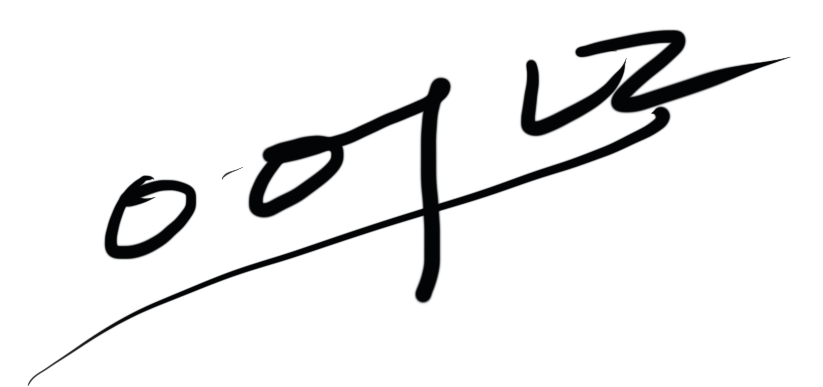
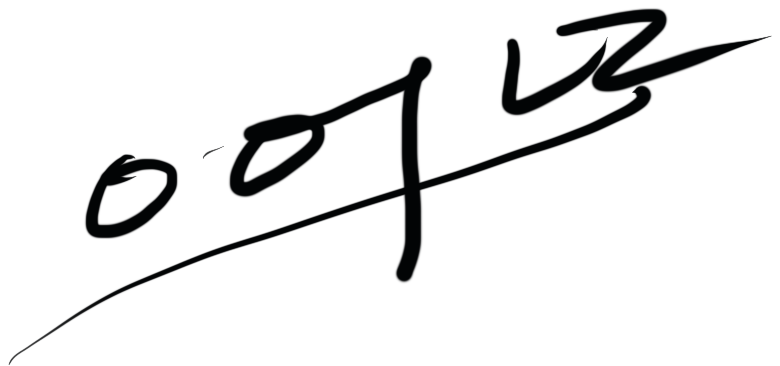
Refine company signature and footer branding

Changed region(s): [[0.0, 0.0, 0.9846, 0.9918], [0.0923, 0.4208, 0.2462, 0.6913]]

diff --git a/assets/styles/main.css b/assets/styles/main.css
@@ -94,6 +94,18 @@ a {
   color: inherit;
 }
 
+.sr-only {
+  position: absolute;
+  width: 1px;
+  height: 1px;
+  padding: 0;
+  margin: -1px;
+  overflow: hidden;
+  clip: rect(0, 0, 0, 0);
+  white-space: nowrap;
+  border: 0;
+}
+
 .site-header {
   position: sticky;
   top: 0;
@@ -960,12 +972,14 @@ body.route-projects .project-brief {
 
 .signature-box {
   margin-top: 8px;
+  width: min(100%, 420px);
   border: 1px dashed #c5c5c5;
-  border-radius: 10px;
-  min-height: 120px;
+  border-radius: 12px;
+  min-height: 96px;
   display: grid;
   place-items: center;
-  padding: 16px;
+  justify-self: start;
+  padding: 12px 16px;
   overflow: hidden;
   background: linear-gradient(180deg, #fbfaf6 0%, #f2efe8 100%);
 }
@@ -973,6 +987,7 @@ body.route-projects .project-brief {
 .signature-box.has-image {
   border-style: solid;
   background: #ffffff;
+  min-height: 0;
 }
 
 .signature-placeholder {
@@ -982,9 +997,9 @@ body.route-projects .project-brief {
 
 .signature-image {
   width: 100%;
-  height: 100%;
-  max-height: 96px;
-  object-fit: contain;
+  height: auto;
+  max-height: none;
+  object-fit: unset;
   filter: grayscale(1) contrast(1.15);
 }
 
@@ -1002,12 +1017,13 @@ body.route-projects .project-brief {
 }
 
 .social-row {
-  margin-top: 14px;
+  margin-top: 18px;
   display: flex;
-  gap: 8px;
+  gap: 10px;
+  align-items: center;
 }
 
-.social-row a,
+.social-link,
 .form-row button,
 .form-row .tel-link,
 .admin-head button,
@@ -1026,8 +1042,8 @@ body.route-projects .project-brief {
   cursor: pointer;
 }
 
-.social-row a:hover,
-.social-row a:focus-visible,
+.social-link:hover,
+.social-link:focus-visible,
 .form-row button:hover,
 .form-row button:focus-visible,
 .form-row .tel-link:hover,
@@ -1038,6 +1054,30 @@ body.route-projects .project-brief {
 .empty-state a:focus-visible {
   background: #111;
   color: #fff;
+}
+
+.social-link {
+  width: 42px;
+  height: 42px;
+  padding: 0;
+  border-radius: 999px;
+  display: inline-flex;
+  align-items: center;
+  justify-content: center;
+  background: #fffdfa;
+}
+
+.social-link svg {
+  width: 18px;
+  height: 18px;
+  stroke: currentColor;
+  stroke-width: 1.8;
+  fill: none;
+}
+
+.social-link .social-icon-fill {
+  fill: currentColor;
+  stroke: none;
 }
 
 .filter-box {
@@ -1850,11 +1890,53 @@ textarea {
   min-height: var(--footer-h);
   padding: 8px 0 10px;
   display: flex;
-  gap: 14px;
+  justify-content: space-between;
+  gap: 14px 18px;
   flex-wrap: wrap;
   align-items: center;
   color: #6a6a6a;
   font-size: 13px;
+}
+
+.footer-brand {
+  display: flex;
+  align-items: center;
+  gap: 14px;
+  min-width: 0;
+  flex-wrap: wrap;
+}
+
+.footer-logo {
+  display: inline-flex;
+  align-items: center;
+  justify-content: center;
+  text-decoration: none;
+  flex: 0 0 auto;
+}
+
+.footer-logo-text {
+  font-family: "Cormorant Garamond", serif;
+  font-style: italic;
+  font-weight: 700;
+  font-size: 28px;
+  line-height: 0.95;
+  letter-spacing: -0.03em;
+  white-space: nowrap;
+  color: #1f3a34;
+}
+
+.footer-logo-image {
+  display: block;
+  height: 24px;
+  width: auto;
+  object-fit: contain;
+}
+
+.footer-meta {
+  display: flex;
+  gap: 14px;
+  flex-wrap: wrap;
+  align-items: center;
 }
 
 .admin-login-link {
@@ -1990,6 +2072,10 @@ textarea {
   .admin-layout,
   .company-layout {
     grid-template-columns: 1fr;
+  }
+
+  .signature-box {
+    width: min(100%, 460px);
   }
 }
 
@@ -2129,6 +2215,15 @@ textarea {
     grid-template-columns: 1fr;
   }
 
+  .signature-box {
+    width: 100%;
+  }
+
+  .footer-brand,
+  .footer-meta {
+    gap: 10px;
+  }
+
   .filter-grid,
   .admin-form {
     grid-template-columns: 1fr;
@@ -2207,6 +2302,15 @@ textarea {
 
   body.route-projects .site-footer {
     display: flex;
+  }
+
+  .site-footer {
+    align-items: flex-start;
+  }
+
+  .admin-login-link {
+    width: 100%;
+    margin-left: 0;
   }
 }
 

diff --git a/assets/scripts/main.js b/assets/scripts/main.js
@@ -607,6 +607,8 @@
     routes: Array.from(document.querySelectorAll("[data-route]")),
     logoText: document.getElementById("logoText"),
     logoImage: document.getElementById("logoImage"),
+    footerLogoText: document.getElementById("footerLogoText"),
+    footerLogoImage: document.getElementById("footerLogoImage"),
     signatureBox: document.getElementById("signatureBox"),
     signaturePlaceholder: document.getElementById("signaturePlaceholder"),
     signatureImage: document.getElementById("signatureImage"),
@@ -1402,7 +1404,17 @@
         item.innerHTML = locale.company.meta[index];
       }
     });
-    setNodeTexts('.page[data-page="company"] .social-row a', locale.company.socials);
+    const companySocialLinks = Array.from(document.querySelectorAll('.page[data-page="company"] .social-row .social-link'));
+    companySocialLinks.forEach((link, index) => {
+      const label = locale.company.socials[index];
+      if (!label) return;
+      link.setAttribute("aria-label", label);
+      link.setAttribute("title", label);
+      const text = link.querySelector(".social-label");
+      if (text) {
+        text.textContent = label;
+      }
+    });
 
     setNodeText('.page[data-page="search"] .page-head .eyebrow', locale.search.eyebrow);
     setNodeText("#page-search-title", locale.search.title);
@@ -2465,8 +2477,13 @@
       el.logoText.textContent = logoText;
       el.logoText.classList.toggle("is-hidden", Boolean(logoImage));
     }
+    if (el.footerLogoText) {
+      el.footerLogoText.textContent = logoText;
+      el.footerLogoText.classList.toggle("is-hidden", Boolean(logoImage));
+    }
 
     syncImageNode(el.logoImage, logoImage, "AID logo");
+    syncImageNode(el.footerLogoImage, logoImage, "AID logo");
     syncImageNode(el.signatureImage, signatureImage, getLocale().company.signEyebrow);
 
     if (el.signatureBox) {

diff --git a/app/templates/pages.html b/app/templates/pages.html
@@ -41,8 +41,21 @@
             <li><strong>사업자번호</strong>000-00-00000</li>
           </ul>
           <div class="social-row">
-            <a href="https://www.instagram.com" target="_blank" rel="noreferrer">인스타그램</a>
-            <a href="https://www.youtube.com" target="_blank" rel="noreferrer">유튜브</a>
+            <a class="social-link" href="https://www.instagram.com" target="_blank" rel="noreferrer" aria-label="인스타그램" title="인스타그램">
+              <svg viewBox="0 0 24 24" aria-hidden="true">
+                <rect x="3.5" y="3.5" width="17" height="17" rx="5" />
+                <circle cx="12" cy="12" r="4.25" />
+                <circle cx="17.4" cy="6.6" r="1.1" class="social-icon-fill" />
+              </svg>
+              <span class="social-label sr-only">인스타그램</span>
+            </a>
+            <a class="social-link" href="https://www.youtube.com" target="_blank" rel="noreferrer" aria-label="유튜브" title="유튜브">
+              <svg viewBox="0 0 24 24" aria-hidden="true">
+                <path d="M21 12.2c0 1.8-.2 3-.5 3.8-.3.8-.9 1.4-1.7 1.7-.8.3-2.6.5-6.8.5s-6-.2-6.8-.5c-.8-.3-1.4-.9-1.7-1.7C3.2 15.2 3 14 3 12.2s.2-3 .5-3.8c.3-.8.9-1.4 1.7-1.7C6 6.4 7.8 6.2 12 6.2s6 .2 6.8.5c.8.3 1.4.9 1.7 1.7.3.8.5 2 .5 3.8Z" />
+                <path class="social-icon-fill" d="M10.2 9.2 15.4 12l-5.2 2.8Z" />
+              </svg>
+              <span class="social-label sr-only">유튜브</span>
+            </a>
           </div>
         </article>
       </div>

diff --git a/app/templates/footer.html b/app/templates/footer.html
@@ -1,4 +1,12 @@
-<strong id="footerCompanyName">부동산 중개법인 에이드청담</strong>
-<span id="footerAddress">서울 강남구 강남대로 126길 76, 1~3층</span>
-<span id="footerPhone">02-0000-0000</span>
+<div class="footer-brand">
+  <a class="footer-logo" href="#projects" data-route="projects" aria-label="AID Home">
+    <span id="footerLogoText" class="footer-logo-text">AID</span>
+    <img id="footerLogoImage" class="footer-logo-image is-hidden" alt="AID logo" />
+  </a>
+  <div class="footer-meta">
+    <strong id="footerCompanyName">부동산 중개법인 에이드청담</strong>
+    <span id="footerAddress">서울 강남구 강남대로 126길 76, 1~3층</span>
+    <span id="footerPhone">02-0000-0000</span>
+  </div>
+</div>
 <a id="adminLoginLink" class="admin-login-link" href="#admin">ADMIN</a>
